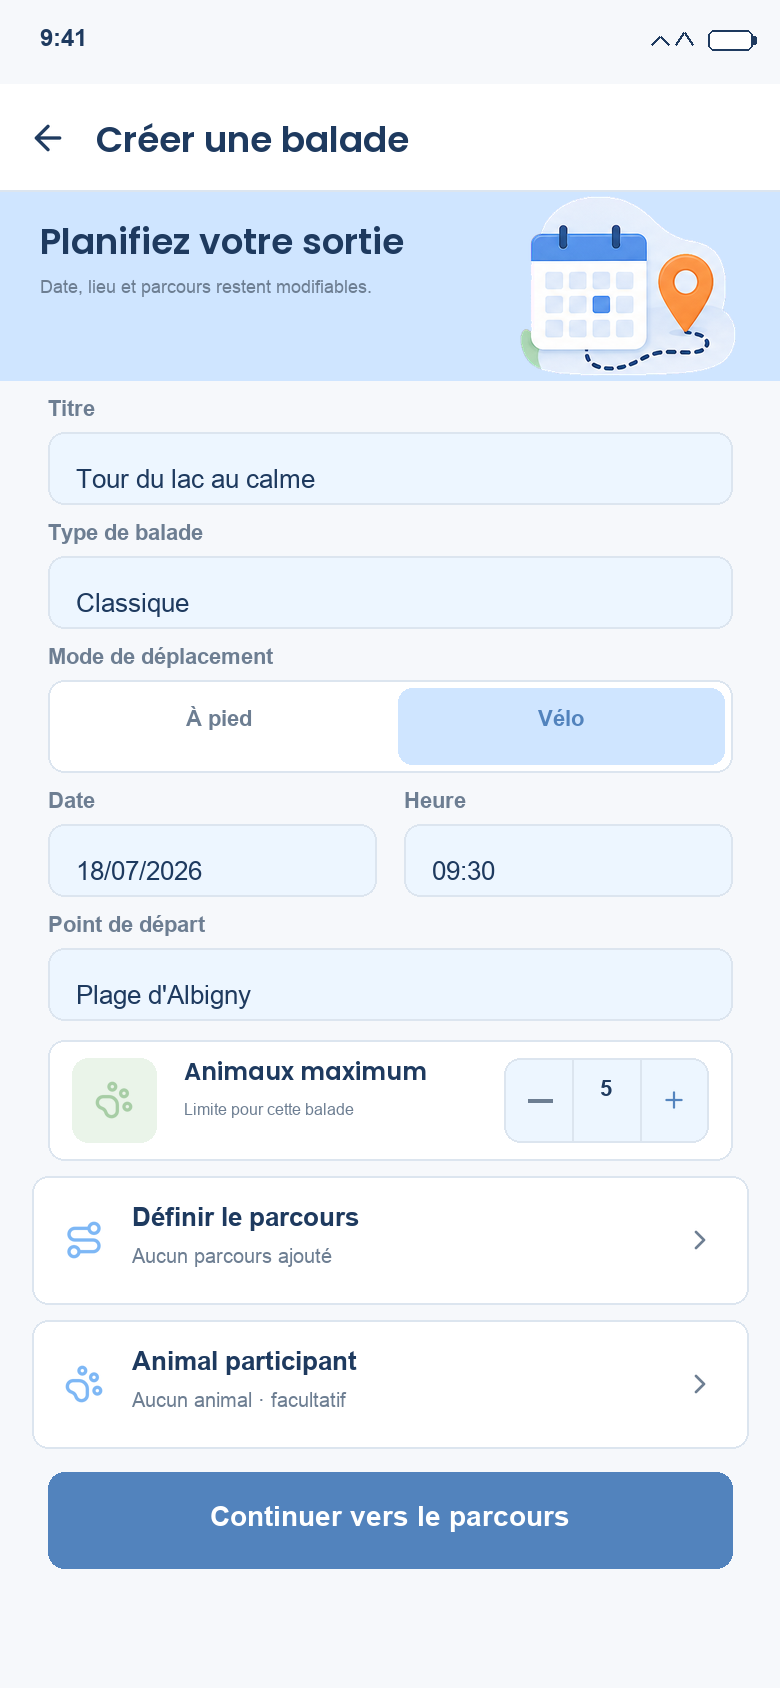
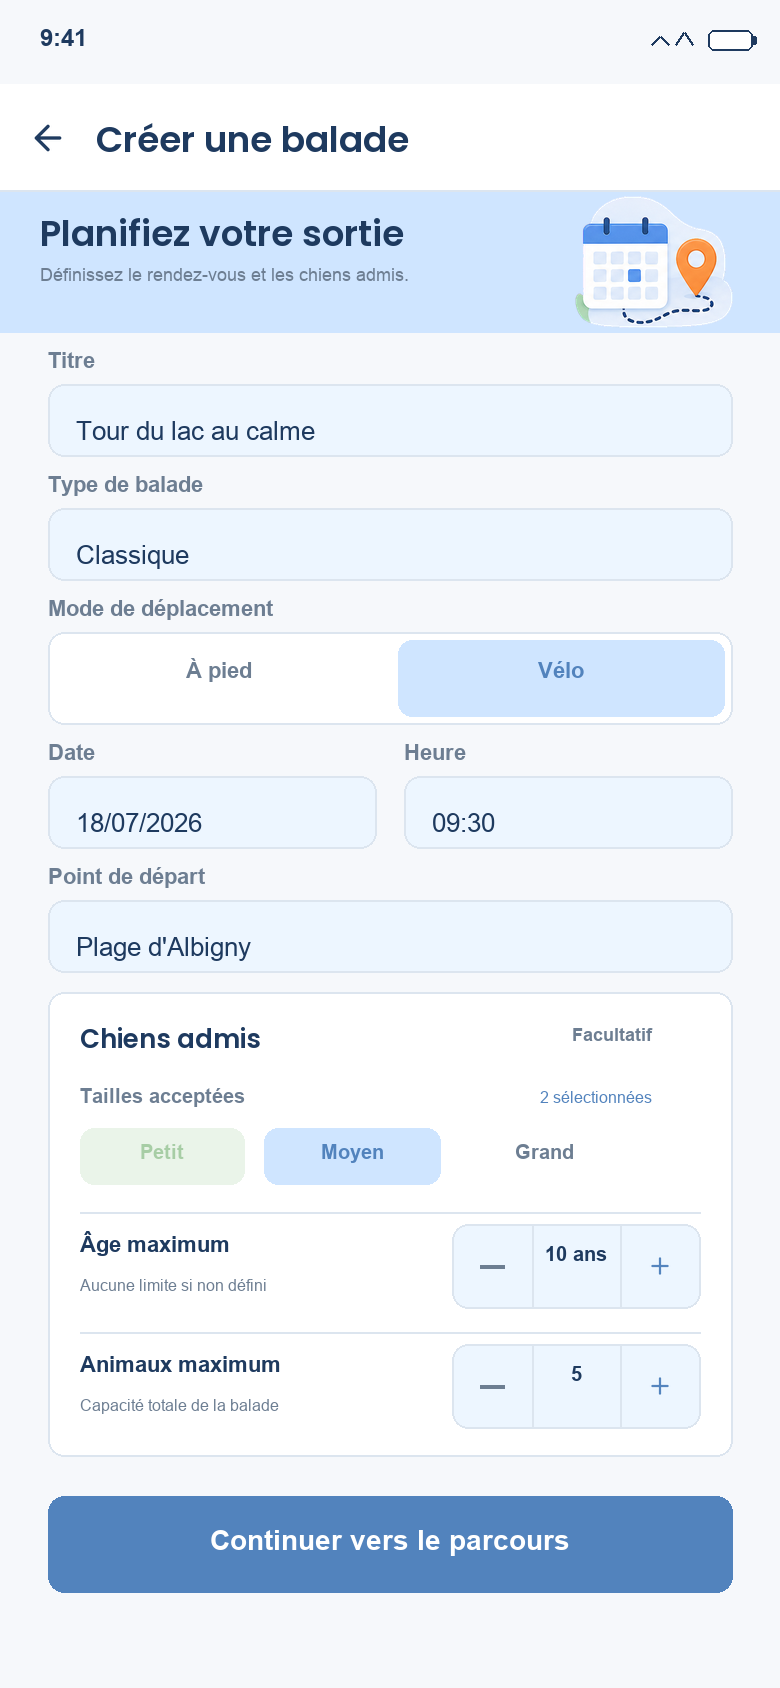
fix(walk): replace participant with dog criteria (#10)

diff --git a/index.html b/index.html
@@ -13,9 +13,9 @@
     <link rel="icon" href="favicon/favicon.svg" type="image/svg+xml">
     <link rel="apple-touch-icon" href="favicon/apple-touch-icon.png">
     <link rel="manifest" href="prototype/manifest.webmanifest">
-    <link rel="stylesheet" href="prototype/styles.css?v=20260716.7">
-    <script src="figma-plugin/code.js?v=20260716.7" defer></script>
-    <script src="prototype/app.js?v=20260716.7" defer></script>
+    <link rel="stylesheet" href="prototype/styles.css?v=20260717.1">
+    <script src="figma-plugin/code.js?v=20260717.1" defer></script>
+    <script src="prototype/app.js?v=20260717.1" defer></script>
   </head>
   <body>
     <div class="prototype-shell">

diff --git a/figma-plugin/code.js b/figma-plugin/code.js
@@ -111,9 +111,7 @@ add("SCR-WALK-003-detail", "S'inscrire à la balade", [20, 684, 350, 46], "SCR-W
 add("SCR-WALK-003-detail", "Lieu de rendez-vous", [20, 740, 170, 42], "SCR-WALK-009-lieu-rendez-vous");
 add("SCR-WALK-003-detail", "Parcours", [200, 740, 170, 42], "SCR-WALK-010-parcours");
 addBack("SCR-WALK-004-creation", "SCR-WALK-001-liste");
-add("SCR-WALK-004-creation", "Définir le parcours", [24, 596, 342, 60], "SCR-NAV-ROUTE-001-definition");
-add("SCR-WALK-004-creation", "Animal participant", [24, 664, 342, 60], "SCR-ANIMAL-002-liste");
-add("SCR-WALK-004-creation", "Continuer vers le parcours", [24, 736, 342, 48], "SCR-NAV-ROUTE-001-definition");
+add("SCR-WALK-004-creation", "Continuer vers le parcours", [24, 748, 342, 48], "SCR-NAV-ROUTE-001-definition");
 addBack("SCR-WALK-005-participation", "SCR-WALK-003-detail");
 add("SCR-WALK-005-participation", "Modifier les animaux", [270, 326, 100, 74], "SCR-ANIMAL-002-liste");
 add("SCR-WALK-005-participation", "Confirmer l'inscription", [20, 690, 350, 48], "SCR-WALK-008-detail-inscrit");

diff --git a/prototype/app.js b/prototype/app.js
@@ -9,7 +9,7 @@
   const BASE_WIDTH = 390;
   const BASE_HEIGHT = 844;
   const SCREEN_PATH = "app-screens/screens/";
-  const ASSET_VERSION = "20260716.7";
+  const ASSET_VERSION = "20260717.1";
   const SCREEN_NAME_OVERRIDES = new Map([
     ["SCR-WALK-005-participation", "WALK 005 · Inscription"],
     ["SCR-WALK-007-coordination", "WALK 007 · Conversation"]

diff --git a/README.md b/README.md
@@ -1,6 +1,6 @@
 # Prototype web Kamitus
 
-Ce dépôt publie le prototype interactif de l'application Kamitus. Il contient 55 écrans mobiles, 170 interactions et 15 parcours fonctionnels.
+Ce dépôt publie le prototype interactif de l'application Kamitus. Il contient 55 écrans mobiles, 168 interactions et 15 parcours fonctionnels.
 
 ## Test local
 
@@ -26,6 +26,8 @@ Le site sera disponible sur `https://spi-m.github.io/Kamitus/`.
 Les écrans et interactions sont exportés depuis le kit de marque Kamitus. Les zones cliquables utilisent le même référentiel que le plugin Figma.
 
 La création du premier animal dispose d'un sous-parcours dédié : après l'enregistrement, l'onboarding reprend sur l'étape de localisation sans modifier le comportement de l'ajout depuis le profil.
+
+La création d'une balade définit les tailles de chiens acceptées, l'âge maximum et la capacité totale avant de passer à la définition du parcours. Elle ne sélectionne pas l'animal de l'organisateur.
 
 Lorsqu'une navigation atteint le point de départ d'un autre parcours, le lecteur met automatiquement à jour le parcours actif, la sélection latérale et l'URL.
 